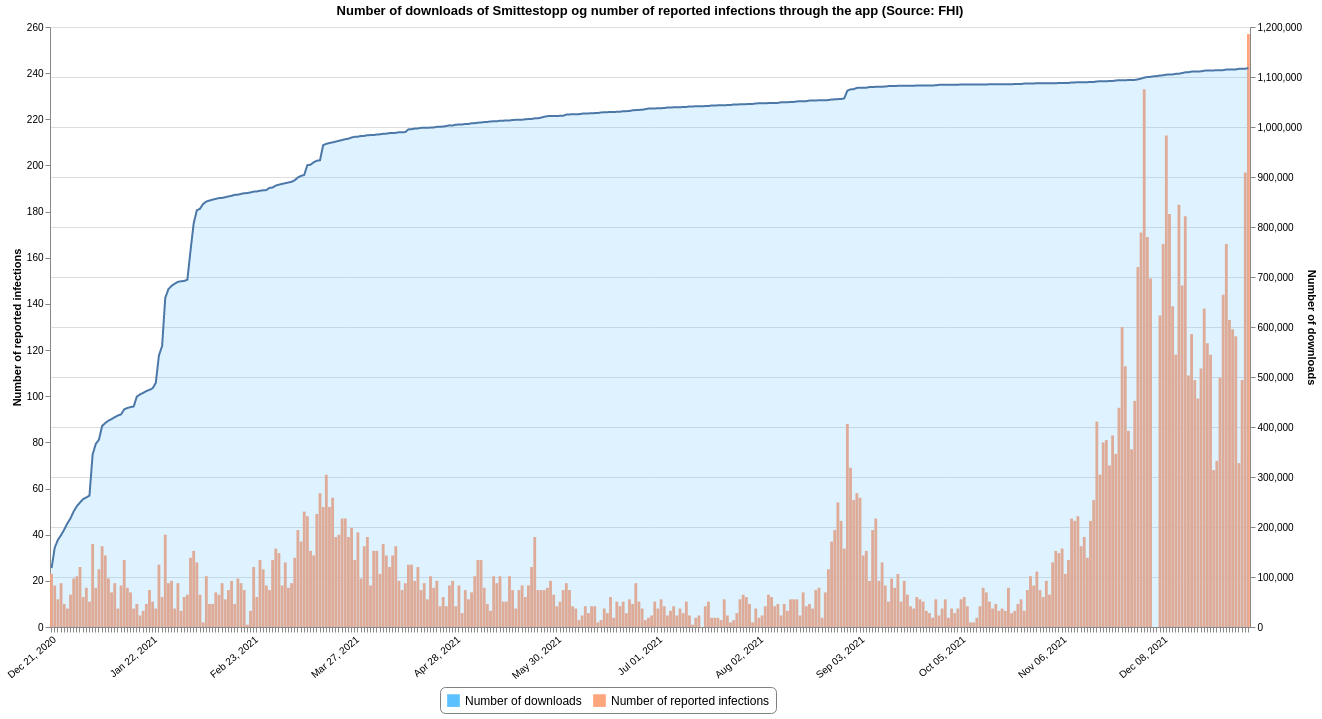
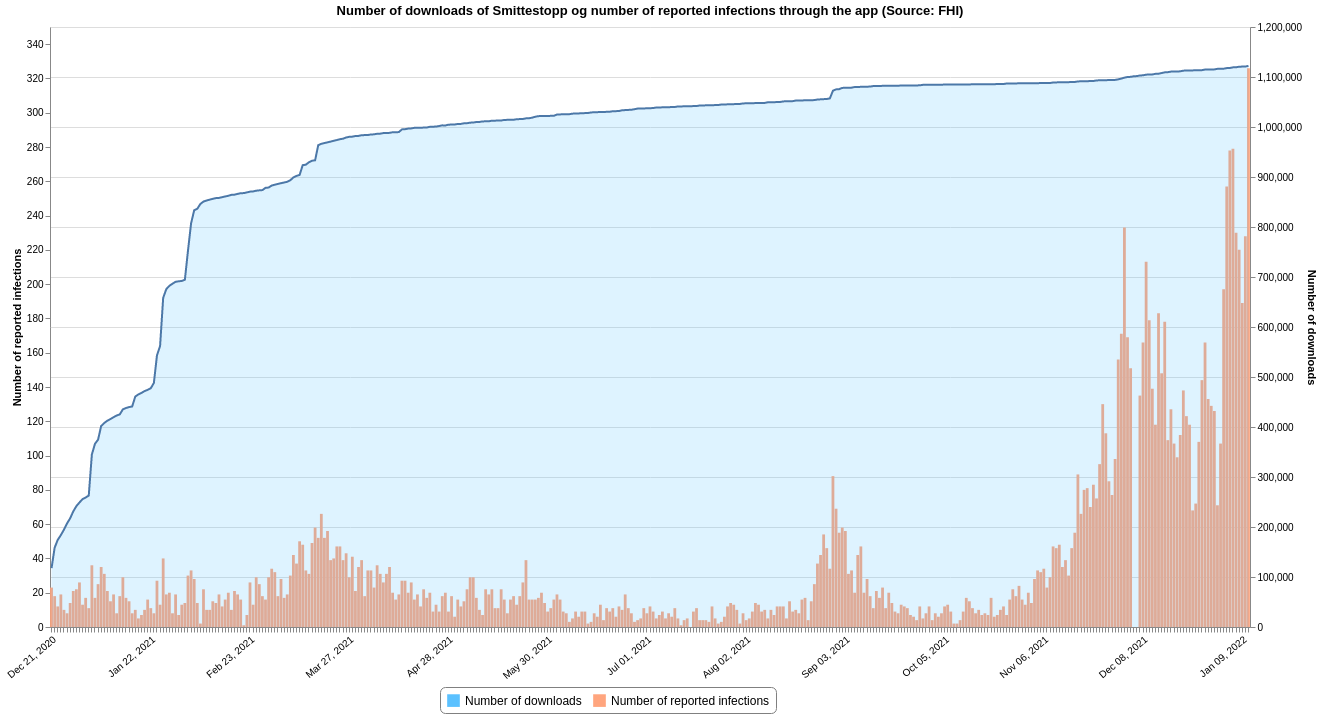
Updated 2022-01-12 09:51

diff --git a/README.md b/README.md
@@ -17,7 +17,7 @@ This repository contains datasets of daily time-series data related to COVID-19 
 |[Tested Lab](#tested_labcsv)|FHI|2022-01-11 13:20:49+01:00|[<center>csv</center>](https://raw.githubusercontent.com/frefrik/covid19norge-data/main/data/tested_lab.csv)|[<center>preview</center>](data/tested_lab.csv)|
 |[Transport](#transportcsv)|FHI|2021-09-24 23:10:46+02:00|[<center>csv</center>](https://raw.githubusercontent.com/frefrik/covid19norge-data/main/data/transport.csv)|[<center>preview</center>](data/transport.csv)|
 |[Vaccine Doses](#vaccine_dosescsv)|FHI|2022-01-11 13:20:53+01:00|[<center>csv</center>](https://raw.githubusercontent.com/frefrik/covid19norge-data/main/data/vaccine_doses.csv)|[<center>preview</center>](data/vaccine_doses.csv)|
-|[Smittestopp](#smittestoppcsv)|FHI|2022-01-05 09:50:55+01:00|[<center>csv</center>](https://raw.githubusercontent.com/frefrik/covid19norge-data/main/data/smittestopp.csv)|[<center>preview</center>](data/smittestopp.csv)|
+|[Smittestopp](#smittestoppcsv)|FHI|2022-01-12 09:50:52+01:00|[<center>csv</center>](https://raw.githubusercontent.com/frefrik/covid19norge-data/main/data/smittestopp.csv)|[<center>preview</center>](data/smittestopp.csv)|
 |[Omicron](#omicroncsv)|FHI|2021-12-22 10:11:05+01:00|[<center>csv</center>](https://raw.githubusercontent.com/frefrik/covid19norge-data/main/data/omicron.csv)|[<center>preview</center>](data/omicron.csv)|
 <!-- table ends -->
 
